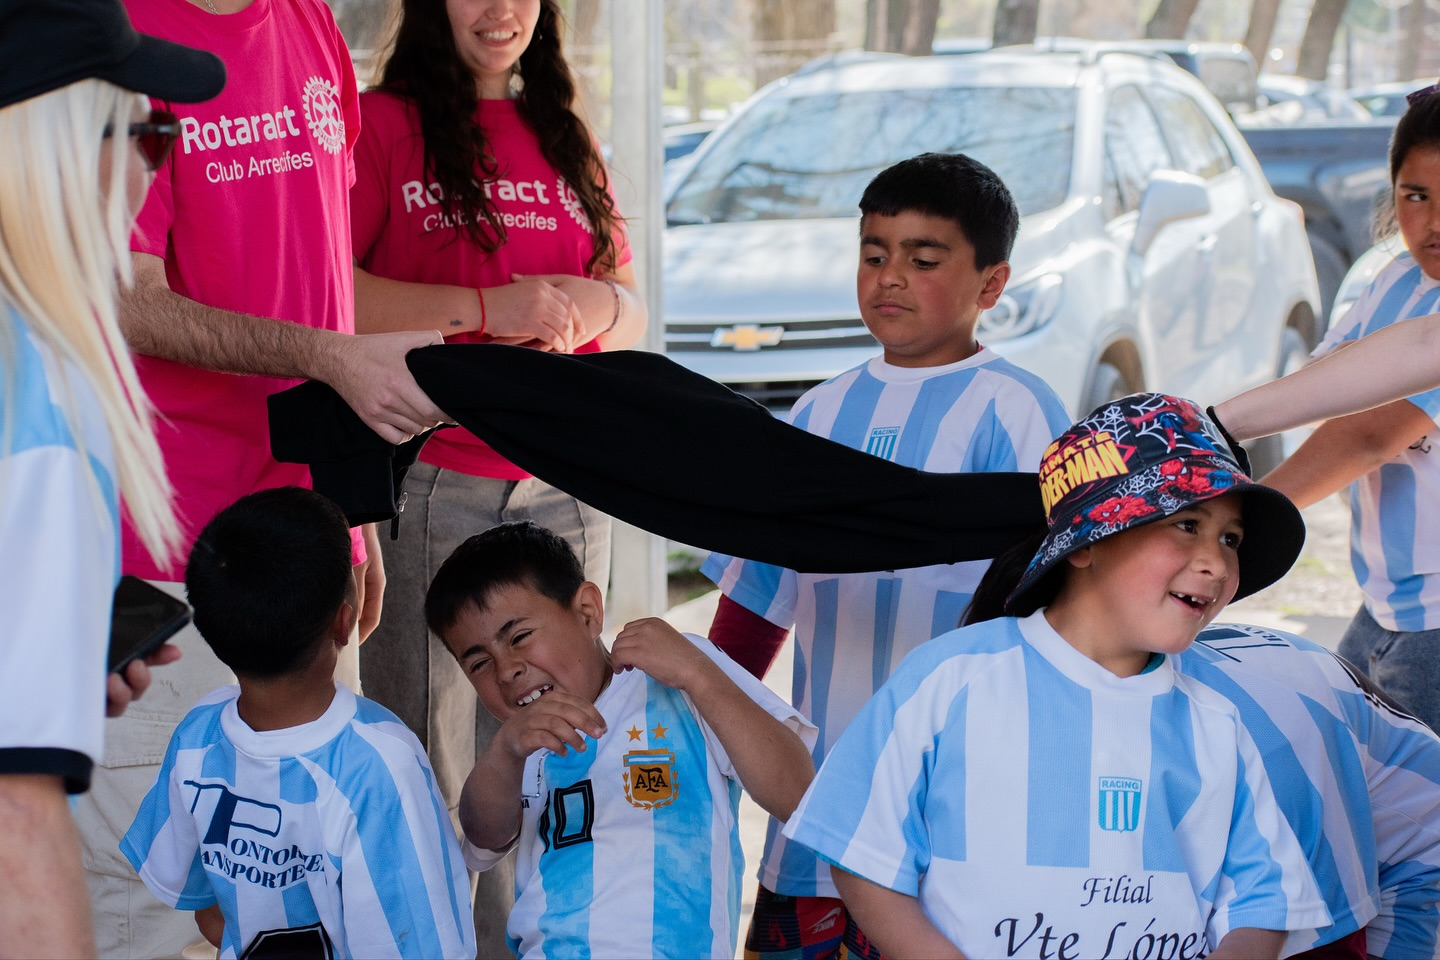
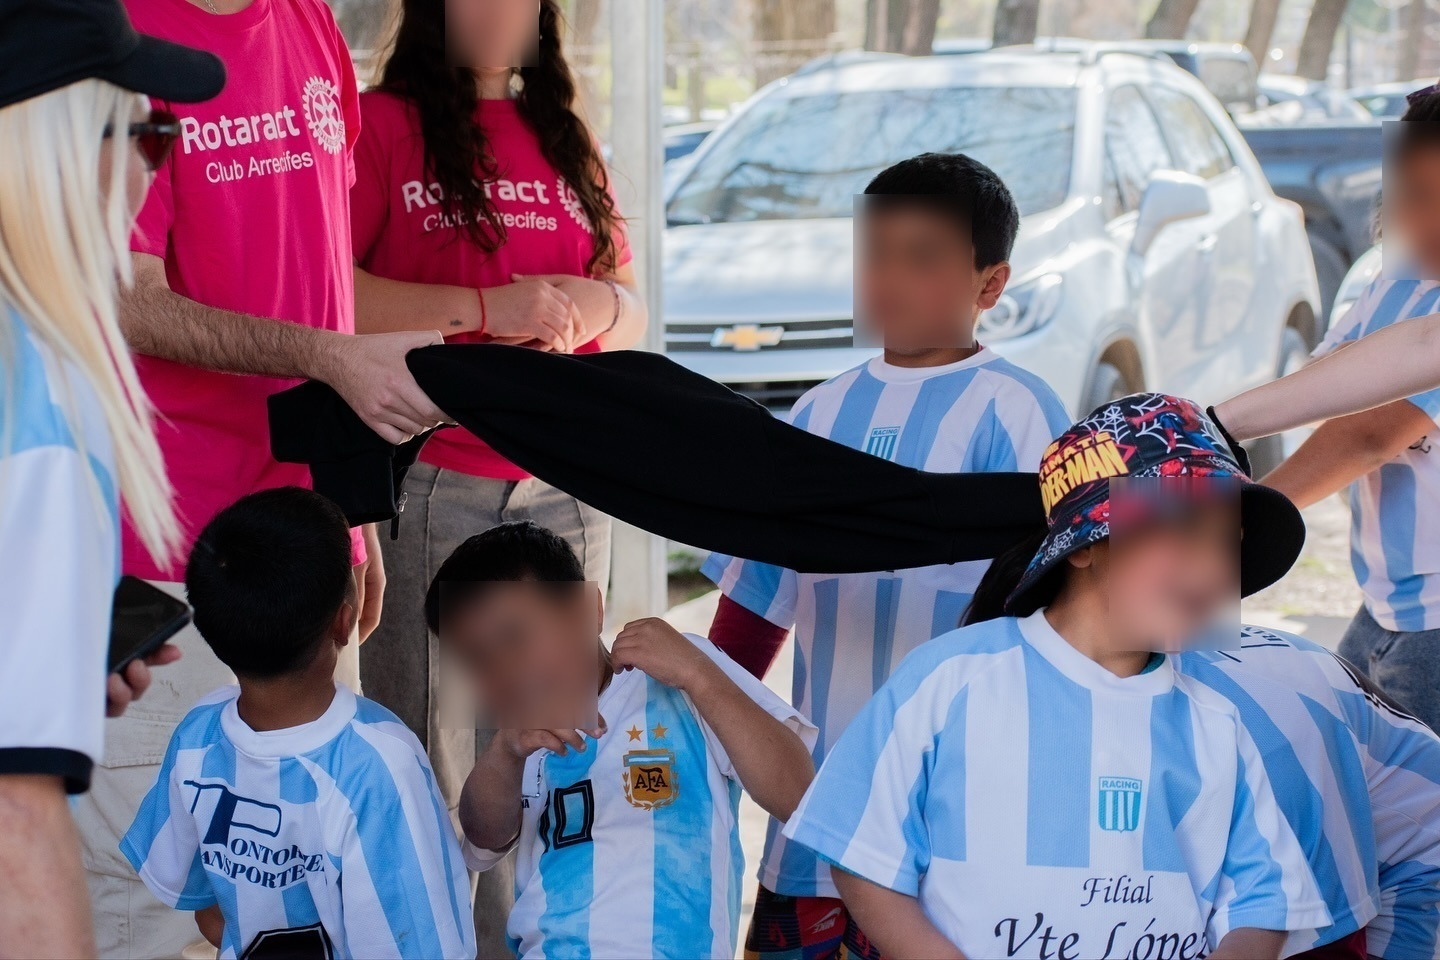
blurear imagenes de merendero 2025

diff --git a/src/data/projectsData.js b/src/data/projectsData.js
@@ -169,8 +169,6 @@ export const projectsData = [
       '/images/proyectos/merendero-2025/foto-5.jpg',
       '/images/proyectos/merendero-2025/foto-6.jpg',
       '/images/proyectos/merendero-2025/foto-7.jpg',
-      '/images/proyectos/merendero-2025/foto-8.jpg',
-      '/images/proyectos/merendero-2025/foto-9.jpg',
     ],
     stats: [
       { value: '🍵', label: 'Merienda completa' },
